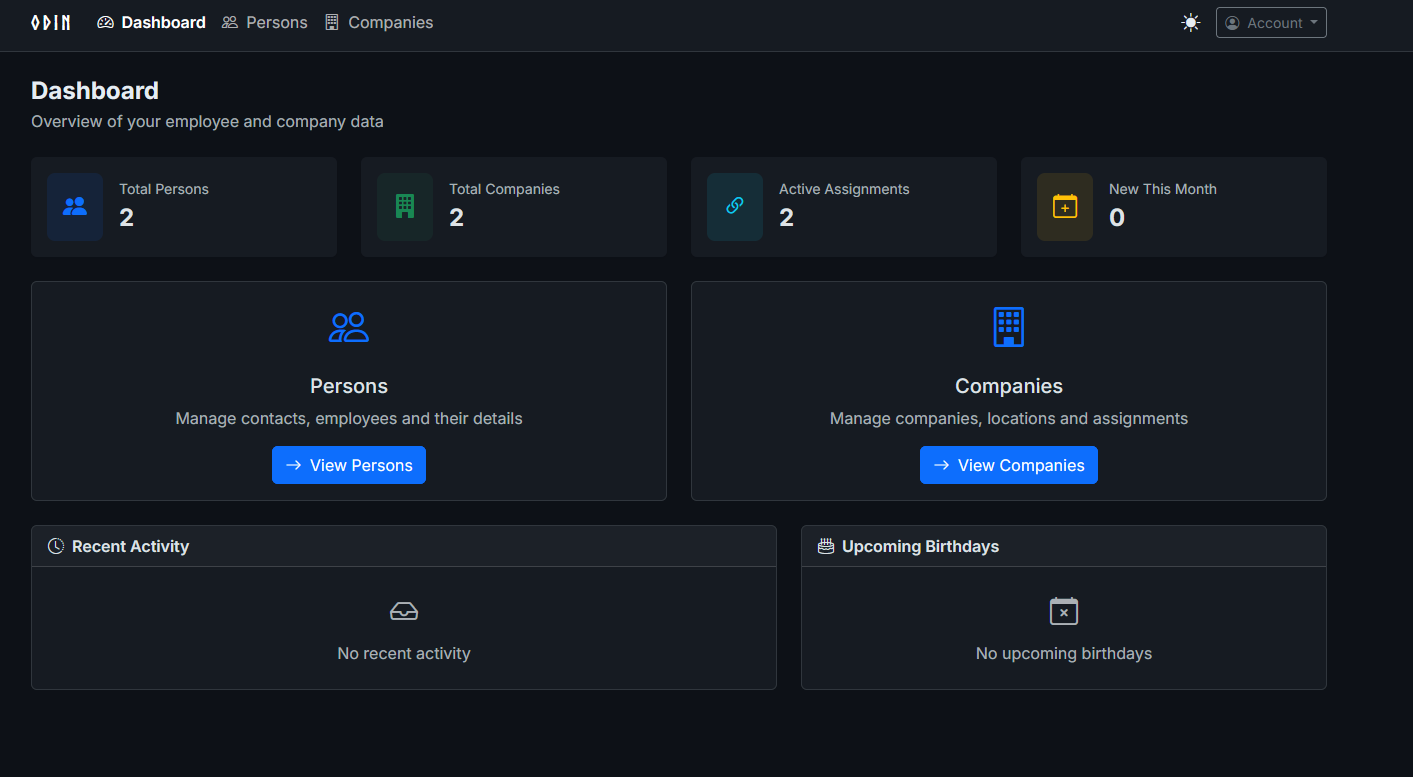
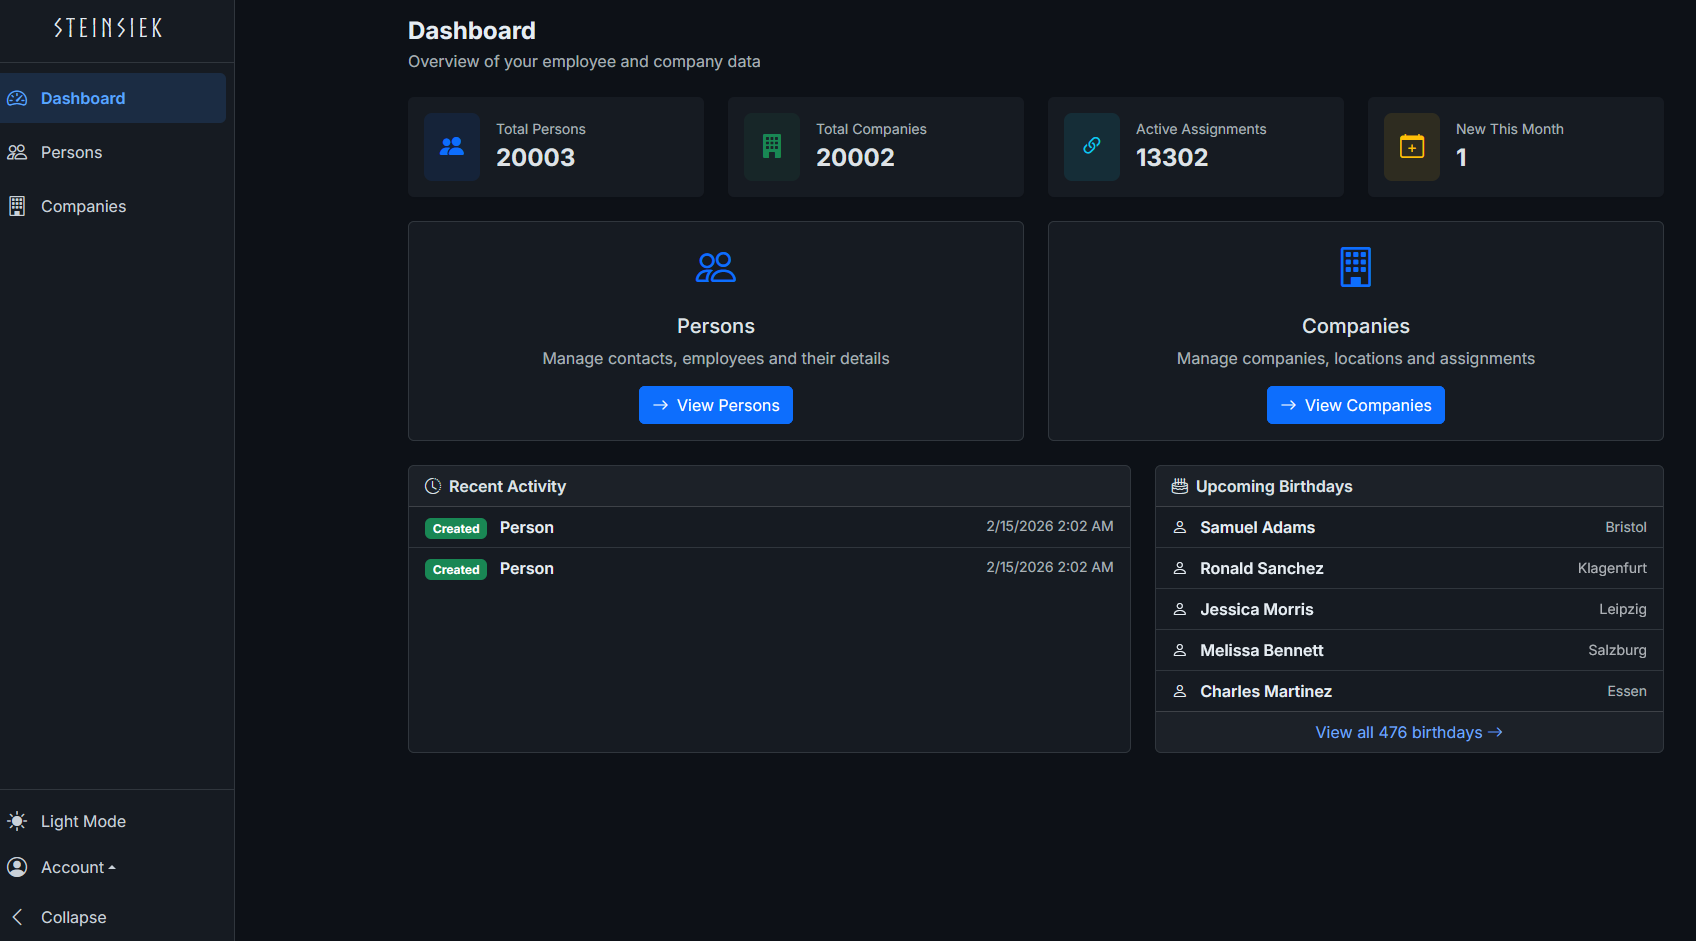
Update preview screenshots with sidebar UI
- Replace old navbar screenshots with new sidebar layout
- Add person detail and company list screenshots
- Remove aspire dashboard and register screenshots

diff --git a/README.md b/README.md
@@ -43,12 +43,12 @@ Steinsiek is a modular Employee and Company Management platform built with .NET 
 <td align="center"><sub>Login</sub></td>
 </tr>
 <tr>
-<td width="50%"><img src="assets/screenshots/register.png" alt="Register"></td>
-<td width="50%"><img src="assets/screenshots/aspire-dashboard.png" alt="Aspire Dashboard"></td>
+<td width="50%"><img src="assets/screenshots/person-detail.png" alt="Person Detail"></td>
+<td width="50%"><img src="assets/screenshots/company-list.png" alt="Company List"></td>
 </tr>
 <tr>
-<td align="center"><sub>Register</sub></td>
-<td align="center"><sub>Aspire Dashboard</sub></td>
+<td align="center"><sub>Person Detail</sub></td>
+<td align="center"><sub>Company List</sub></td>
 </tr>
 </table>
 
